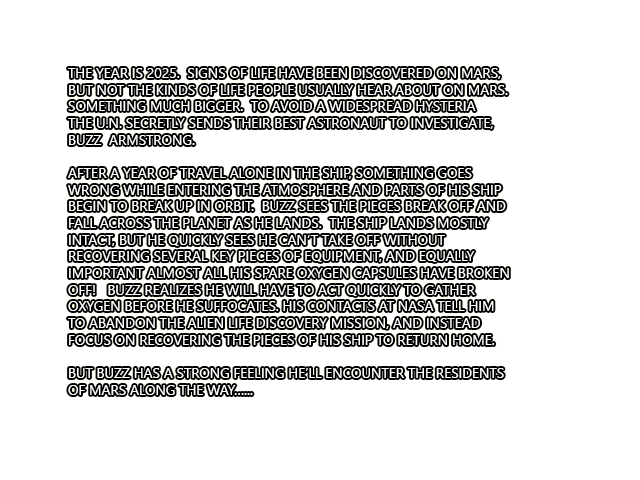
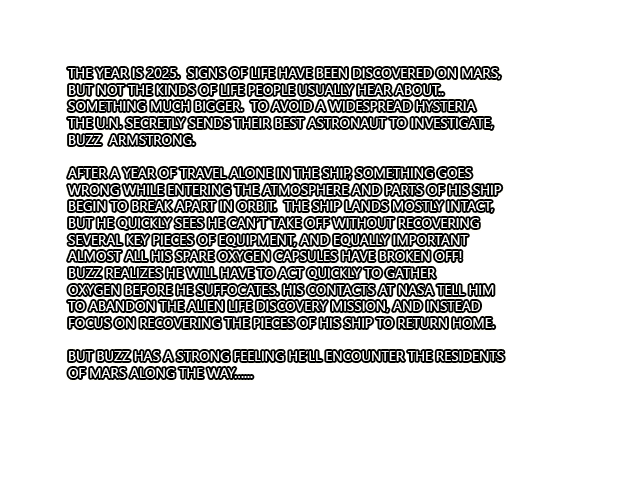
Edited intro text. Smoother intro animation.

Changed region(s): [[0.0938, 0.4062, 0.8125, 0.8438], [0.6875, 0.1562, 0.8125, 0.2188]]

diff --git a/game/levels/level_transition.dart b/game/levels/level_transition.dart
@@ -27,7 +27,7 @@ class LevelTransition extends GameObject{
     x = 0.0;
     y = 0.0;
     input = new Input();
-    alien = new Alien()..initialize(300.0, 0.0);
+    alien = new Alien()..initialize(500.0, 0.0);
     droid = new Droid()..initialize(300.0, 0.0);
     
     introBG = new SpriteSheet("./content/intro_bg.png",spritex,spritey,640,480);
@@ -60,7 +60,11 @@ class LevelTransition extends GameObject{
         
         else if(repeat2==13){
                 
-          if(buzz2x <= 425){
+          if(buzz2x <= 725){
+            if(buzz2.spritex>=850){
+             buzz2.spritex = 0;
+                               }
+            
           buzz2.spritex += 75;
           buzz2x += 37;
           repeat2=0;
@@ -81,7 +85,7 @@ class LevelTransition extends GameObject{
           }
          }       
         buzz2.drawOnPosition(buzz2x, 300.0, 75.0 , 100.0);
-        buzz.drawOnPosition(500.0, 300.0, 75.0 , 100.0);
+        buzz.drawOnPosition(800.0, 300.0, 75.0 , 100.0);
       }
 
       introText.drawOnPositionNormal(0.0, 0.0, width , height);
